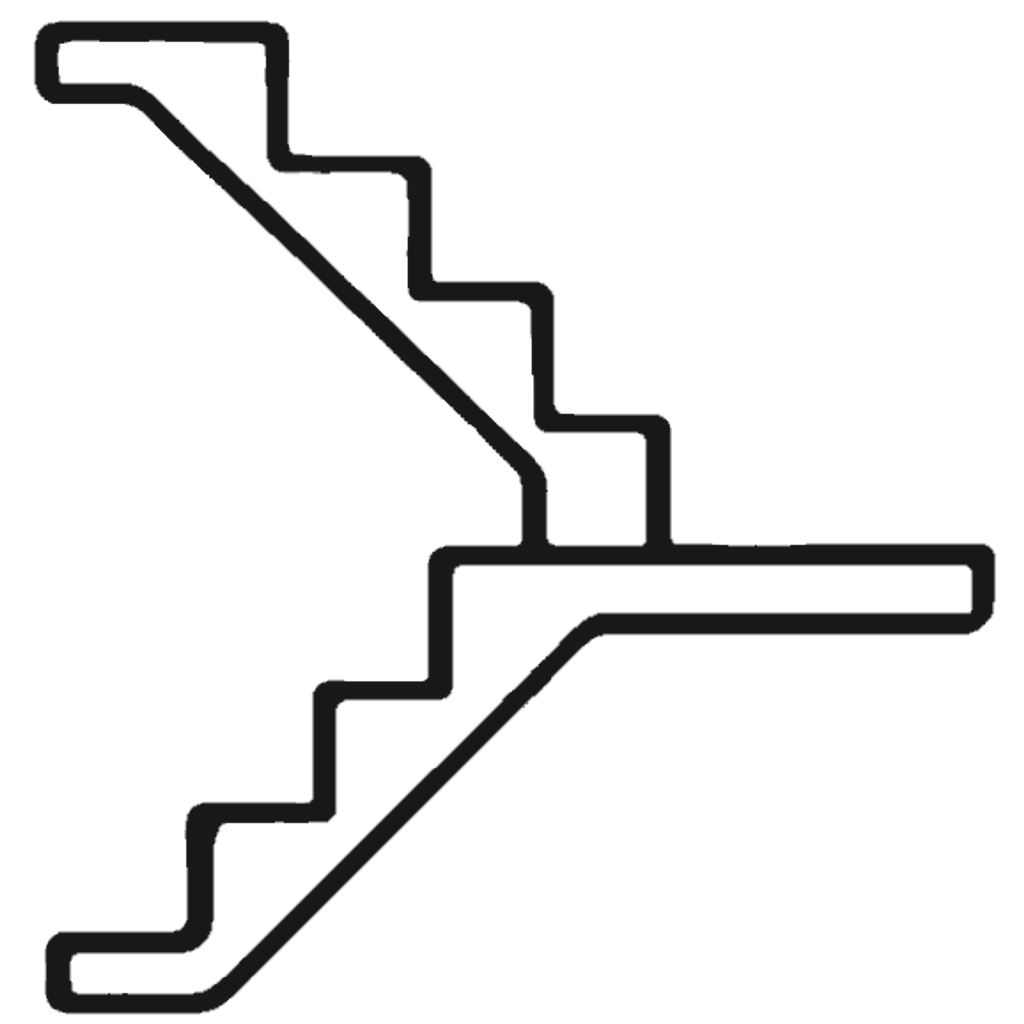
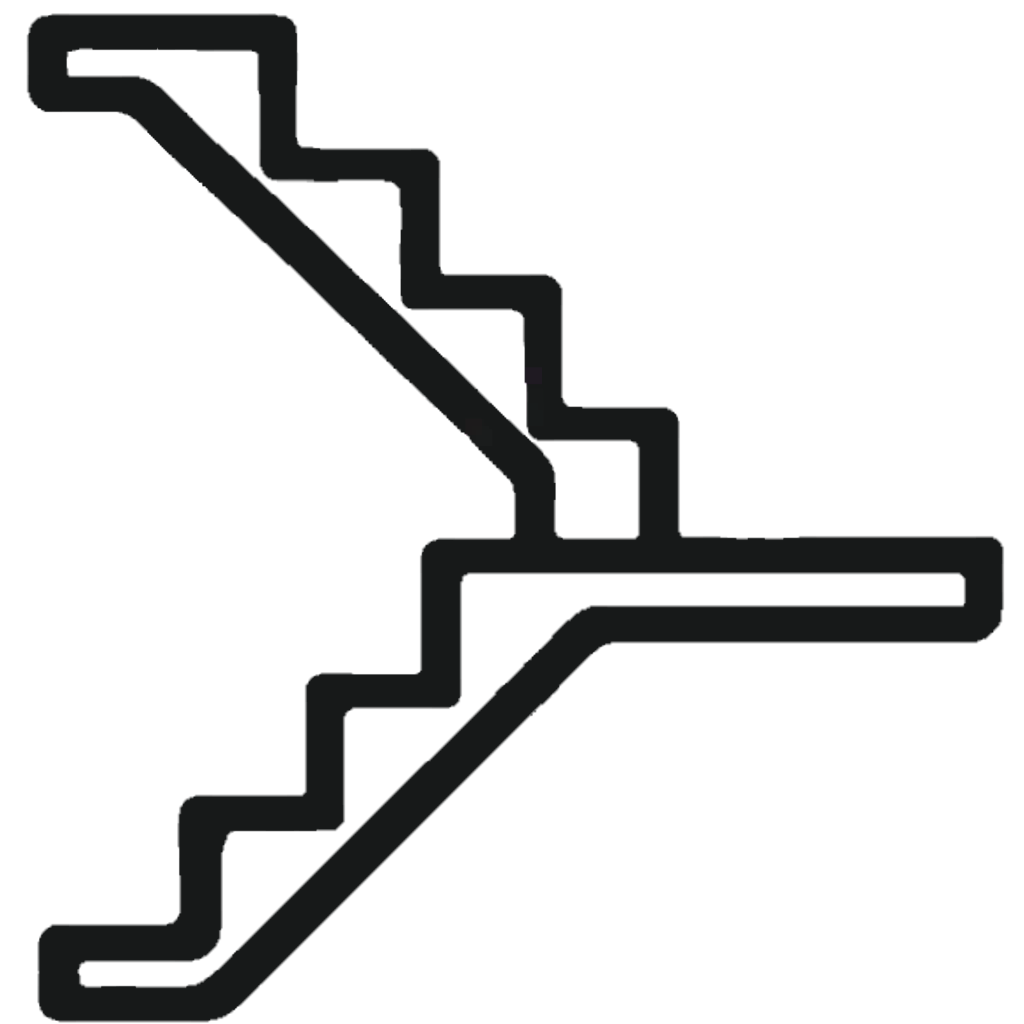
finished artwork for benefits section

Changed region(s): [[0.0, 0.0, 1.0, 1.0]]

diff --git a/apps/website/src/routes/BigBenefitCard.svelte b/apps/website/src/routes/BigBenefitCard.svelte
@@ -3,23 +3,21 @@
 </script>
 
 <div
-	class="lg:col-span-2 bg-surface-dark rounded-md items-center overflow-hidden lg:items-start flex flex-col gap-4 py-10 px-6 lg:px-10 w-full drop-shadow-glow-sm-dark border-1 border-primary-dark">
+	class="lg:col-span-2 bg-surface-dark rounded-md items-center overflow-hidden lg:items-start flex flex-col gap-4 py-10 px-6 pb-0 lg:pb-10 lg:px-10 w-full drop-shadow-glow-sm-dark border-1 border-primary-dark">
 	<div class="bg-background-dark rounded-md p-3">
 		<img src={$$props.topIcon} alt="book" class="w-7 h-7 object-center object-cover" />
 	</div>
 	<div class="flex flex-col gap-2 lg:text-left z-10">
 		<h1 class="headline-large">{$$props.title}</h1>
-		<p class="body-large max-w-md">
+		<p class="body-large max-w-sm">
 			{$$props.body}
 		</p>
 	</div>
-	<div class="flex flex-col justify-self-end mt-auto gap-2">
+	<div class="flex flex-col justify-self-end mt-auto gap-2 z-10 lg:pb-4">
 		<slot />
 	</div>
-	<div class="hidden lg:flex z-0 w-3/5 absolute right-0 my-auto">
-		<img
-			src={$$props.artwork}
-			class="object-center object-cover drop-shadow-glow-sm-dark"
-			alt="artwork" />
+	<div
+		class="flex h-full z-0 aspect-square lg:w-3/5 lg:h-fit lg:absolute mx-auto lg:-right-5 lg:translate-x-0 lg:mx-0 lg:translate-y-0 lg:-bottom-12 lg:my-auto">
+		<img src={$$props.artwork} class="object-center object-contain" alt="artwork" />
 	</div>
 </div>

diff --git a/apps/website/src/routes/SmallBenefitCard.svelte b/apps/website/src/routes/SmallBenefitCard.svelte
@@ -3,20 +3,17 @@
 </script>
 
 <div
-	class="lg:col-span-1 bg-surface-dark rounded-md overflow-hidden items-center flex flex-col gap-4 py-10 px-8 w-full drop-shadow-glow-sm-dark border-1 border-primary-dark">
+	class="lg:col-span-1 bg-surface-dark rounded-md overflow-hidden items-center flex flex-col gap-4 py-10 pb-5 px-8 w-full drop-shadow-glow-sm-dark border-1 border-primary-dark">
 	<div class="bg-background-dark rounded-md p-3">
 		<img src={$$props.topIcon} alt="book" class="w-7 h-7 object-center object-cover" />
 	</div>
 	<div class="flex flex-col gap-2 text-center h-full z-10">
 		<h1 class="headline-large">{$$props.title}</h1>
-		<p class="body-large max-w-md">
+		<p class="body-large max-w-sm">
 			<slot />
 		</p>
 	</div>
-	<div class="hidden lg:flex z-0 w-full absolute left-1/2 -translate-x-1/2 my-auto">
-		<img
-			src={$$props.artwork}
-			class="object-center object-cover drop-shadow-glow-sm-dark"
-			alt="artwork" />
+	<div class="flex z-0 mx-auto">
+		<img src={$$props.artwork} class="object-center w-full h-full" alt="artwork" />
 	</div>
 </div>

diff --git a/apps/website/src/routes/+page.svelte b/apps/website/src/routes/+page.svelte
@@ -271,16 +271,20 @@
 				<SmallBenefitCard
 					topIcon="artwork/unlocked_3.png"
 					title="Not Locked In"
-					artwork="artwork/staircase_1.png">
+					artwork="artwork/gate_1.png">
 					You're projects use nonproprietary tech, meaning you can swap us out later on. <span
 						class="inline-block">(You won't &#128521;)</span>
 				</SmallBenefitCard>
-				<SmallBenefitCard topIcon="artwork/scalable_1.png" title="Scalable Tiers">
+				<SmallBenefitCard
+					topIcon="artwork/scalable_1.png"
+					title="Scalable Tiers"
+					artwork="artwork/staircase_1.png">
 					Start with what you need and scale up or down as your business grows.
 				</SmallBenefitCard>
 				<BigBenefitCard
 					topIcon="artwork/mag_scope_1.png"
 					title="Transparent Pricing"
+					artwork="artwork/window_1.png"
 					body={`
 					Our simple and transparent subscription model fosters trust, gaurantees predictable prices, and provides peace of mind.
 			`}>

diff --git a/apps/website/src/lib/components/organisms/Footer.svelte b/apps/website/src/lib/components/organisms/Footer.svelte
@@ -23,13 +23,13 @@
 
 <footer
 	id="header"
-	class="{$$props.class} py-12 text-primary-light dark:text-primary-dark border-secondary-light/10 dark:border-secondary-dark/10 top-0 z-40 w-full transition-all duration-400">
+	class="{$$props.class} py-16 mb-32 border-b text-primary-light dark:text-primary-dark border-secondary-dark/10 top-0 z-40 w-full transition-all duration-400">
 	<div
 		class="flex flex-col sm:flex-row gap-y-3 relative items-center px-6 md:px-18 lg:max-w-5xl xl:max-w-6xl mx-auto">
 		<a class="flex w-fit mr-auto gap-3" href="/">
 			<Logo />
 		</a>
-		<div class="flex items-center mr-auto sm:ml-auto gap-8 title-medium font-light">
+		<div class="flex items-center mr-auto sm:mr-0 sm:ml-auto gap-8 title-medium font-light">
 			<nav class="flex gap-6 lg:gap-8 pb-0.5">
 				{#each elements as element, i}
 					<a class="hhover:text-tertiary-dark" href={element.href}>
